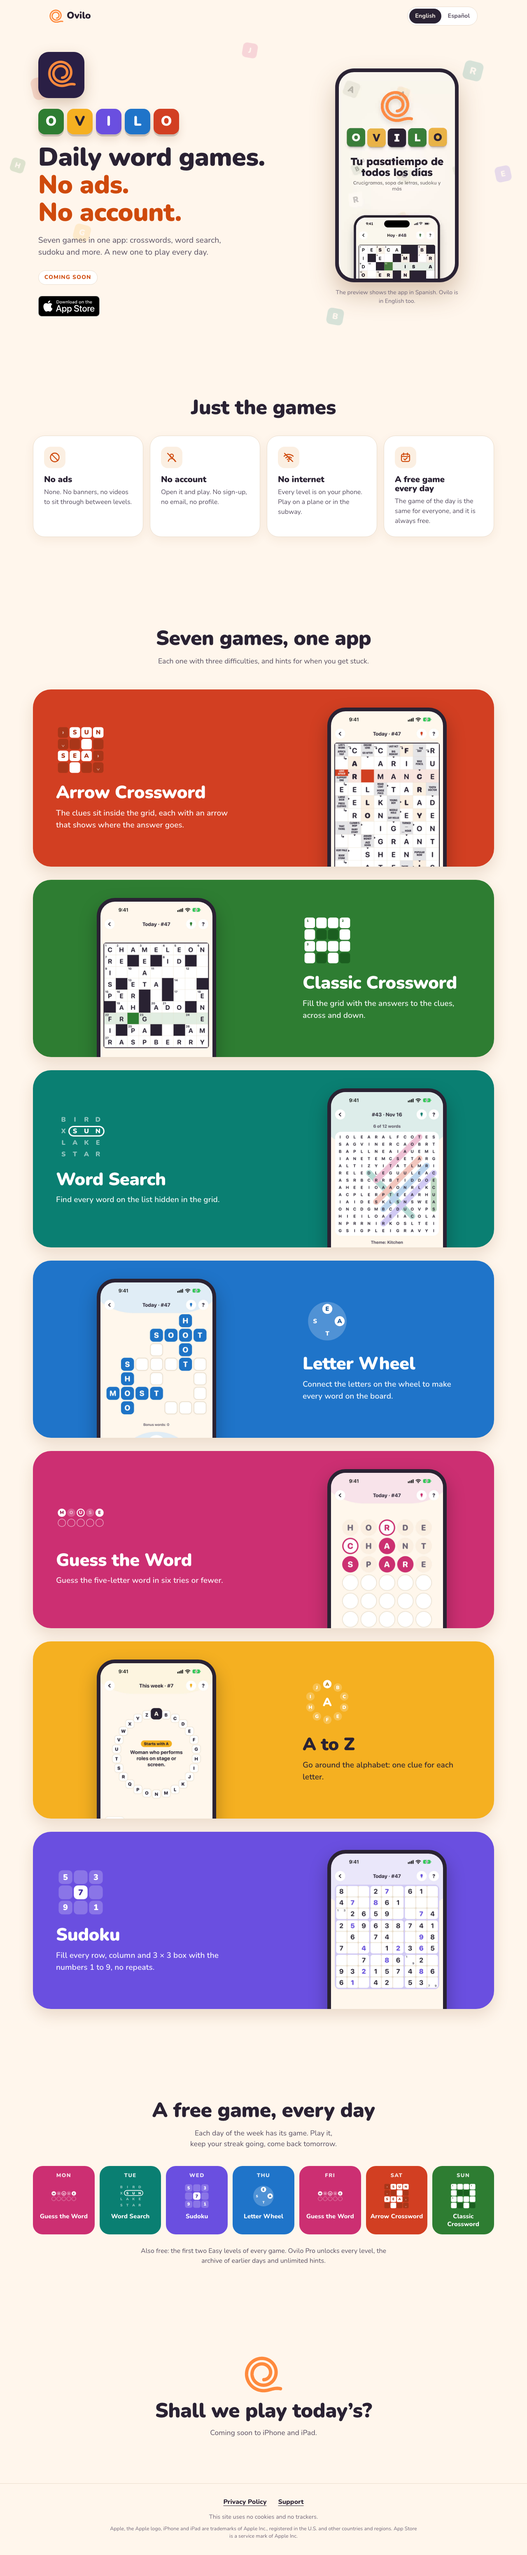
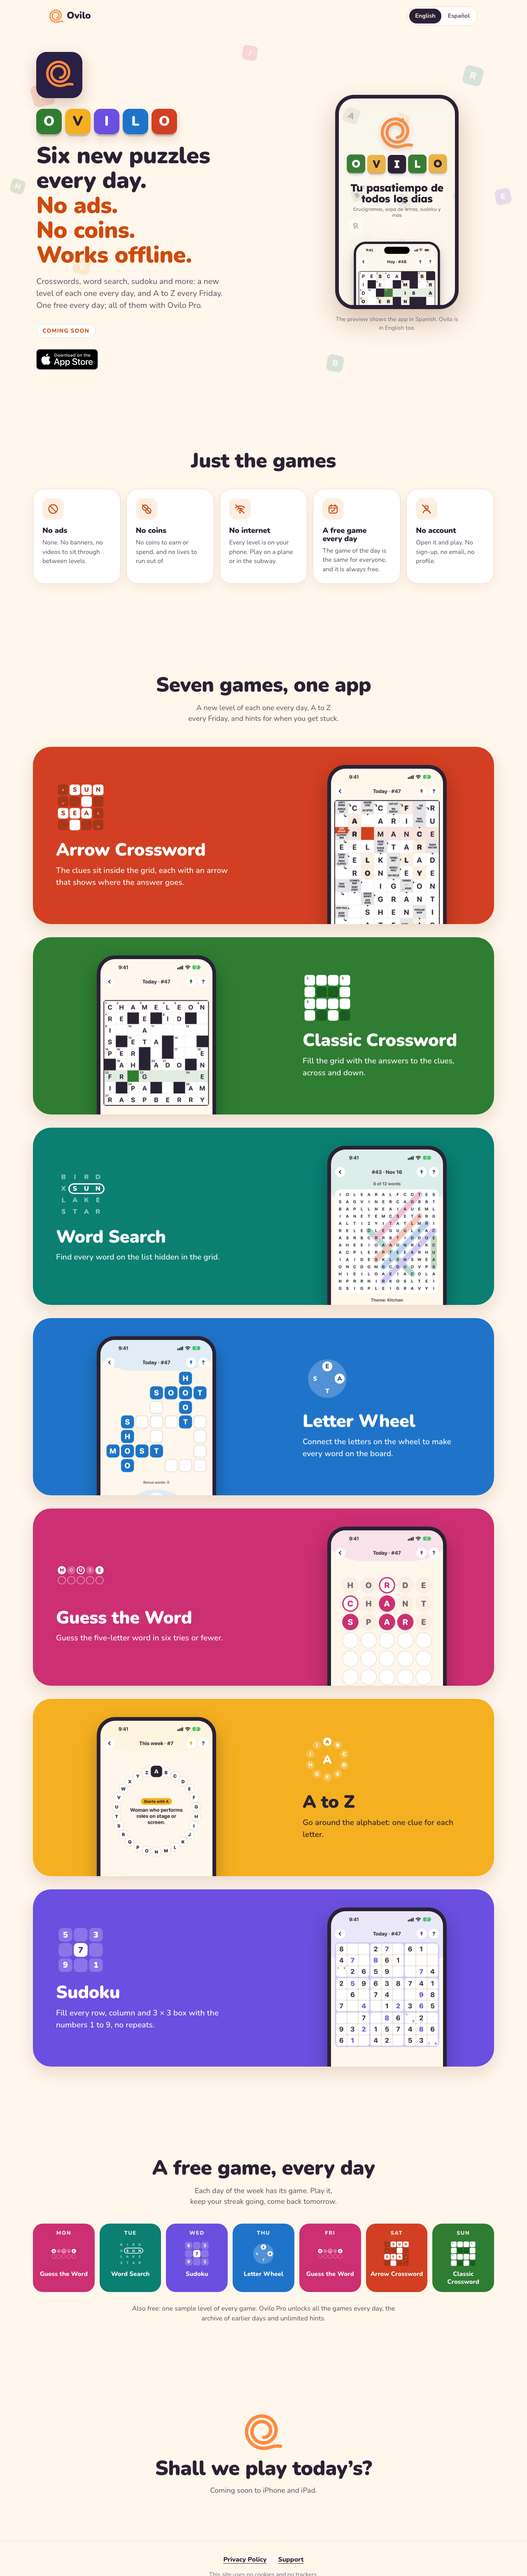
Textos del modelo diario: seis juegos nuevos cada día, sin monedas, sin internet (FO-580)
Fuera las dificultades y «los dos primeros niveles de Fácil»: lo gratis es el juego del día y un
nivel de muestra por juego.

diff --git a/es/index.html b/es/index.html
@@ -3,8 +3,8 @@
 <head>
 <meta charset="utf-8">
 <meta name="viewport" content="width=device-width, initial-scale=1, viewport-fit=cover">
-<title>Ovilo — Juegos de palabras para todos los días. Sin anuncios. Sin cuenta.</title>
-<meta name="description" content="Siete juegos de palabras y números en una sola app para iPhone: crucigramas, sopa de letras, rueda de letras, adivina la palabra, de la A a la Z y sudoku. Sin anuncios, sin cuenta y sin internet.">
+<title>Ovilo — Seis juegos nuevos cada día. Sin anuncios. Sin monedas. Sin internet.</title>
+<meta name="description" content="Crucigramas, sopa de letras, rueda de letras, adivina la palabra y sudoku para iPhone: un nivel nuevo de cada uno todos los días, y De la A a la Z cada viernes. Sin anuncios, sin monedas y sin internet.">
 <meta name="theme-color" content="#FFF6EC" media="(prefers-color-scheme: light)">
 <meta name="theme-color" content="#1A1622" media="(prefers-color-scheme: dark)">
 <meta name="color-scheme" content="light dark">
@@ -12,8 +12,8 @@
 <link rel="alternate" hreflang="es" href="https://ovilo.app/es/">
 <link rel="alternate" hreflang="x-default" href="https://ovilo.app/">
 <meta property="og:type" content="website">
-<meta property="og:title" content="Ovilo — Juegos de palabras para todos los días. Sin anuncios. Sin cuenta.">
-<meta property="og:description" content="Siete juegos de palabras y números en una sola app para iPhone: crucigramas, sopa de letras, rueda de letras, adivina la palabra, de la A a la Z y sudoku. Sin anuncios, sin cuenta y sin internet.">
+<meta property="og:title" content="Ovilo — Seis juegos nuevos cada día. Sin anuncios. Sin monedas. Sin internet.">
+<meta property="og:description" content="Crucigramas, sopa de letras, rueda de letras, adivina la palabra y sudoku para iPhone: un nivel nuevo de cada uno todos los días, y De la A a la Z cada viernes. Sin anuncios, sin monedas y sin internet.">
 <meta property="og:image" content="https://ovilo.app/assets/img/og.png">
 <meta name="twitter:card" content="summary_large_image">
 <link rel="icon" href="../assets/img/favicon.png" type="image/png">
@@ -45,8 +45,8 @@
     <div class="hero-text">
       <img class="app-icon" src="../assets/img/icon-256.png" width="112" height="112" alt="">
       <p class="wordmark" aria-label="Ovilo"><span aria-hidden="true" style="--g:#2E7D32;--on:#FFFFFF;--i:0">O</span><span aria-hidden="true" style="--g:#F5B021;--on:#2A2233;--i:1">V</span><span aria-hidden="true" style="--g:#6A4FE0;--on:#FFFFFF;--i:2">I</span><span aria-hidden="true" style="--g:#1F74C9;--on:#FFFFFF;--i:3">L</span><span aria-hidden="true" style="--g:#D23F22;--on:#FFFFFF;--i:4">O</span></p>
-      <h1><span>Un juego de palabras cada día.</span> <span class="accent">Sin anuncios.</span> <span class="accent">Sin cuenta.</span></h1>
-      <p class="sub">Siete juegos en una sola app: crucigramas, sopa de letras, sudoku y más. Cada día, uno nuevo para jugar.</p>
+      <h1><span>Seis juegos nuevos cada día.</span> <span class="accent">Sin anuncios.</span> <span class="accent">Sin monedas.</span> <span class="accent">Sin internet.</span></h1>
+      <p class="sub">Crucigramas, sopa de letras, sudoku y más: un nivel nuevo de cada uno todos los días, y De la A a la Z cada viernes. Gratis, uno por día; con Ovilo Pro, todos.</p>
       <div class="store" aria-label="Próximamente en iPhone y iPad."><span class="soon">Próximamente</span><img class="badge" src="../assets/img/app-store-badge-es.svg" width="150" height="50" alt="Descárgalo en el App Store"></div>
     </div>
     <div class="hero-video">
@@ -59,15 +59,16 @@
     <h2 class="reveal">Solo los juegos</h2>
     <ul class="why-grid">
       <li class="reveal" style="--i:0"><span class="why-icon"><svg viewBox="0 0 24 24" aria-hidden="true" focusable="false" fill="none" stroke="currentColor" stroke-width="2" stroke-linecap="round" stroke-linejoin="round"><circle cx="12" cy="12" r="9"/><path d="M5.6 5.6l12.8 12.8"/></svg></span><h3>Sin anuncios</h3><p>Ninguno. Ni carteles ni videos que esperar entre nivel y nivel.</p></li>
-      <li class="reveal" style="--i:1"><span class="why-icon"><svg viewBox="0 0 24 24" aria-hidden="true" focusable="false" fill="none" stroke="currentColor" stroke-width="2" stroke-linecap="round" stroke-linejoin="round"><circle cx="12" cy="8.5" r="3.5"/><path d="M5 20c.8-3.6 3.6-5.5 7-5.5s6.2 1.9 7 5.5"/><path d="M3.5 3.5l17 17"/></svg></span><h3>Sin cuenta</h3><p>La abres y juegas. Sin registro, sin correo, sin perfil.</p></li>
+      <li class="reveal" style="--i:1"><span class="why-icon"><svg viewBox="0 0 24 24" aria-hidden="true" focusable="false" fill="none" stroke="currentColor" stroke-width="2" stroke-linecap="round" stroke-linejoin="round"><circle cx="9" cy="9" r="5.5"/><path d="M14.2 10.2a5.5 5.5 0 1 1-4 4"/><path d="M3.5 3.5l17 17"/></svg></span><h3>Sin monedas</h3><p>Ni monedas que juntar o gastar, ni vidas que se acaban.</p></li>
       <li class="reveal" style="--i:2"><span class="why-icon"><svg viewBox="0 0 24 24" aria-hidden="true" focusable="false" fill="none" stroke="currentColor" stroke-width="2" stroke-linecap="round" stroke-linejoin="round"><path d="M2.5 9.5a14 14 0 0 1 19 0"/><path d="M6 13a9 9 0 0 1 12 0"/><path d="M9.3 16.4a4.2 4.2 0 0 1 5.4 0"/><circle cx="12" cy="19.5" r=".8" fill="currentColor"/><path d="M3.5 3.5l17 17"/></svg></span><h3>Sin internet</h3><p>Todos los niveles están en tu teléfono. Juega en el avión o en el metro.</p></li>
       <li class="reveal" style="--i:3"><span class="why-icon"><svg viewBox="0 0 24 24" aria-hidden="true" focusable="false" fill="none" stroke="currentColor" stroke-width="2" stroke-linecap="round" stroke-linejoin="round"><rect x="3.5" y="5" width="17" height="15.5" rx="3.5"/><path d="M8 3v4M16 3v4M3.5 10h17"/><path d="M8.5 15l2.3 2.3 4.7-4.8"/></svg></span><h3>Un juego gratis cada día</h3><p>El juego del día es el mismo para todos, y siempre es gratis.</p></li>
+      <li class="reveal" style="--i:4"><span class="why-icon"><svg viewBox="0 0 24 24" aria-hidden="true" focusable="false" fill="none" stroke="currentColor" stroke-width="2" stroke-linecap="round" stroke-linejoin="round"><circle cx="12" cy="8.5" r="3.5"/><path d="M5 20c.8-3.6 3.6-5.5 7-5.5s6.2 1.9 7 5.5"/><path d="M3.5 3.5l17 17"/></svg></span><h3>Sin cuenta</h3><p>La abres y juegas. Sin registro, sin correo, sin perfil.</p></li>
     </ul>
   </section>
 
   <section class="games">
     <h2 class="reveal">Siete juegos, una app</h2>
-    <p class="lead reveal">Cada uno con tres dificultades, y pistas para cuando te atascas.</p>
+    <p class="lead reveal">Un nivel nuevo de cada uno todos los días, De la A a la Z cada viernes, y pistas para cuando te atascas.</p>
     <div class="game-list">
       <article class="game reveal" style="--g:#D23F22;--deep:#A93619;--on:#FFFFFF">
         <div class="game-text">
@@ -154,7 +155,7 @@
         <li style="--g:#D23F22;--deep:#A93619;--on:#FFFFFF"><span class="day">Sáb</span><svg class="art" viewBox="0 0 120 120" aria-hidden="true" focusable="false"><rect x="4.62" y="4.62" width="25.53" height="25.53" rx="5.62" fill="#A93619"/><text x="17.38" y="17.38" font-size="15.83" fill="rgba(255,255,255,.55)" text-anchor="middle" dominant-baseline="central">›</text><rect x="33.03" y="4.62" width="25.53" height="25.53" rx="5.62" fill="#FFFFFF"/><text x="45.79" y="17.38" font-size="15.32" fill="#A93619" text-anchor="middle" dominant-baseline="central">S</text><rect x="61.44" y="4.62" width="25.53" height="25.53" rx="5.62" fill="#FFFFFF"/><text x="74.21" y="17.38" font-size="15.32" fill="#A93619" text-anchor="middle" dominant-baseline="central">O</text><rect x="89.85" y="4.62" width="25.53" height="25.53" rx="5.62" fill="#FFFFFF"/><text x="102.62" y="17.38" font-size="15.32" fill="#A93619" text-anchor="middle" dominant-baseline="central">L</text><rect x="4.62" y="33.03" width="25.53" height="25.53" rx="5.62" fill="#A93619"/><text x="17.38" y="45.79" font-size="15.83" fill="rgba(255,255,255,.55)" text-anchor="middle" dominant-baseline="central">⌄</text><rect x="33.03" y="33.03" width="25.53" height="25.53" rx="5.62" fill="#A93619"/><rect x="61.44" y="33.03" width="25.53" height="25.53" rx="5.62" fill="#FFFFFF"/><rect x="89.85" y="33.03" width="25.53" height="25.53" rx="5.62" fill="#A93619"/><rect x="4.62" y="61.44" width="25.53" height="25.53" rx="5.62" fill="#FFFFFF"/><text x="17.38" y="74.21" font-size="15.32" fill="#A93619" text-anchor="middle" dominant-baseline="central">M</text><rect x="33.03" y="61.44" width="25.53" height="25.53" rx="5.62" fill="#FFFFFF"/><text x="45.79" y="74.21" font-size="15.32" fill="#A93619" text-anchor="middle" dominant-baseline="central">A</text><rect x="61.44" y="61.44" width="25.53" height="25.53" rx="5.62" fill="#FFFFFF"/><text x="74.21" y="74.21" font-size="15.32" fill="#A93619" text-anchor="middle" dominant-baseline="central">R</text><rect x="89.85" y="61.44" width="25.53" height="25.53" rx="5.62" fill="#A93619"/><text x="102.62" y="74.21" font-size="15.83" fill="rgba(255,255,255,.55)" text-anchor="middle" dominant-baseline="central">›</text><rect x="4.62" y="89.85" width="25.53" height="25.53" rx="5.62" fill="#A93619"/><rect x="33.03" y="89.85" width="25.53" height="25.53" rx="5.62" fill="#FFFFFF"/><rect x="61.44" y="89.85" width="25.53" height="25.53" rx="5.62" fill="#A93619"/><rect x="89.85" y="89.85" width="25.53" height="25.53" rx="5.62" fill="#A93619"/><text x="102.62" y="102.62" font-size="15.83" fill="rgba(255,255,255,.55)" text-anchor="middle" dominant-baseline="central">⌄</text></svg><span class="day-game">Crucigrama autodefinido</span></li>
         <li style="--g:#2E7D32;--deep:#1B5E20;--on:#FFFFFF"><span class="day">Dom</span><svg class="art" viewBox="0 0 120 120" aria-hidden="true" focusable="false"><rect x="4.62" y="4.62" width="25.53" height="25.53" rx="5.62" fill="#FFFFFF"/><text x="12.28" y="12.28" font-size="7.66" fill="#1B5E20" text-anchor="middle" dominant-baseline="central">1</text><rect x="33.03" y="4.62" width="25.53" height="25.53" rx="5.62" fill="#FFFFFF"/><rect x="61.44" y="4.62" width="25.53" height="25.53" rx="5.62" fill="#FFFFFF"/><rect x="89.85" y="4.62" width="25.53" height="25.53" rx="5.62" fill="#FFFFFF"/><text x="97.51" y="12.28" font-size="7.66" fill="#1B5E20" text-anchor="middle" dominant-baseline="central">2</text><rect x="4.62" y="33.03" width="25.53" height="25.53" rx="5.62" fill="#FFFFFF"/><rect x="33.03" y="33.03" width="25.53" height="25.53" rx="5.62" fill="#1B5E20"/><rect x="61.44" y="33.03" width="25.53" height="25.53" rx="5.62" fill="#1B5E20"/><rect x="89.85" y="33.03" width="25.53" height="25.53" rx="5.62" fill="#FFFFFF"/><rect x="4.62" y="61.44" width="25.53" height="25.53" rx="5.62" fill="#FFFFFF"/><text x="12.28" y="69.1" font-size="7.66" fill="#1B5E20" text-anchor="middle" dominant-baseline="central">3</text><rect x="33.03" y="61.44" width="25.53" height="25.53" rx="5.62" fill="#FFFFFF"/><rect x="61.44" y="61.44" width="25.53" height="25.53" rx="5.62" fill="#FFFFFF"/><rect x="89.85" y="61.44" width="25.53" height="25.53" rx="5.62" fill="#FFFFFF"/><rect x="4.62" y="89.85" width="25.53" height="25.53" rx="5.62" fill="#FFFFFF"/><rect x="33.03" y="89.85" width="25.53" height="25.53" rx="5.62" fill="#1B5E20"/><rect x="61.44" y="89.85" width="25.53" height="25.53" rx="5.62" fill="#FFFFFF"/><rect x="89.85" y="89.85" width="25.53" height="25.53" rx="5.62" fill="#1B5E20"/></svg><span class="day-game">Crucigrama tradicional</span></li>
     </ol>
-    <p class="free-note reveal">También gratis: los dos primeros niveles de Fácil de cada juego. Ovilo Pro abre todos los niveles, el archivo de los días anteriores y pistas sin límite.</p>
+    <p class="free-note reveal">También gratis: un nivel de muestra de cada juego. Ovilo Pro abre todos los juegos todos los días, el archivo de los días anteriores y pistas sin límite.</p>
   </section>
 
   <section class="end reveal">

diff --git a/index.html b/index.html
@@ -3,8 +3,8 @@
 <head>
 <meta charset="utf-8">
 <meta name="viewport" content="width=device-width, initial-scale=1, viewport-fit=cover">
-<title>Ovilo — Daily word games. No ads. No account.</title>
-<meta name="description" content="Seven word and number games in one iPhone app: crosswords, word search, letter wheel, guess the word, A to Z and sudoku. No ads, no account, no internet needed.">
+<title>Ovilo — Six new puzzles every day. No ads. No coins. Works offline.</title>
+<meta name="description" content="Crosswords, word search, letter wheel, guess the word and sudoku for iPhone: a new level of each every day, and A to Z every Friday. No ads, no coins, no internet needed.">
 <meta name="theme-color" content="#FFF6EC" media="(prefers-color-scheme: light)">
 <meta name="theme-color" content="#1A1622" media="(prefers-color-scheme: dark)">
 <meta name="color-scheme" content="light dark">
@@ -12,8 +12,8 @@
 <link rel="alternate" hreflang="es" href="https://ovilo.app/es/">
 <link rel="alternate" hreflang="x-default" href="https://ovilo.app/">
 <meta property="og:type" content="website">
-<meta property="og:title" content="Ovilo — Daily word games. No ads. No account.">
-<meta property="og:description" content="Seven word and number games in one iPhone app: crosswords, word search, letter wheel, guess the word, A to Z and sudoku. No ads, no account, no internet needed.">
+<meta property="og:title" content="Ovilo — Six new puzzles every day. No ads. No coins. Works offline.">
+<meta property="og:description" content="Crosswords, word search, letter wheel, guess the word and sudoku for iPhone: a new level of each every day, and A to Z every Friday. No ads, no coins, no internet needed.">
 <meta property="og:image" content="https://ovilo.app/assets/img/og.png">
 <meta name="twitter:card" content="summary_large_image">
 <link rel="icon" href="assets/img/favicon.png" type="image/png">
@@ -45,8 +45,8 @@
     <div class="hero-text">
       <img class="app-icon" src="assets/img/icon-256.png" width="112" height="112" alt="">
       <p class="wordmark" aria-label="Ovilo"><span aria-hidden="true" style="--g:#2E7D32;--on:#FFFFFF;--i:0">O</span><span aria-hidden="true" style="--g:#F5B021;--on:#2A2233;--i:1">V</span><span aria-hidden="true" style="--g:#6A4FE0;--on:#FFFFFF;--i:2">I</span><span aria-hidden="true" style="--g:#1F74C9;--on:#FFFFFF;--i:3">L</span><span aria-hidden="true" style="--g:#D23F22;--on:#FFFFFF;--i:4">O</span></p>
-      <h1><span>Daily word games.</span> <span class="accent">No ads.</span> <span class="accent">No account.</span></h1>
-      <p class="sub">Seven games in one app: crosswords, word search, sudoku and more. A new one to play every day.</p>
+      <h1><span>Six new puzzles every day.</span> <span class="accent">No ads.</span> <span class="accent">No coins.</span> <span class="accent">Works offline.</span></h1>
+      <p class="sub">Crosswords, word search, sudoku and more: a new level of each one every day, and A to Z every Friday. One free every day; all of them with Ovilo Pro.</p>
       <div class="store" aria-label="Coming soon to iPhone and iPad."><span class="soon">Coming soon</span><img class="badge" src="assets/img/app-store-badge-en.svg" width="150" height="50" alt="Download on the App Store"></div>
     </div>
     <div class="hero-video">
@@ -59,15 +59,16 @@
     <h2 class="reveal">Just the games</h2>
     <ul class="why-grid">
       <li class="reveal" style="--i:0"><span class="why-icon"><svg viewBox="0 0 24 24" aria-hidden="true" focusable="false" fill="none" stroke="currentColor" stroke-width="2" stroke-linecap="round" stroke-linejoin="round"><circle cx="12" cy="12" r="9"/><path d="M5.6 5.6l12.8 12.8"/></svg></span><h3>No ads</h3><p>None. No banners, no videos to sit through between levels.</p></li>
-      <li class="reveal" style="--i:1"><span class="why-icon"><svg viewBox="0 0 24 24" aria-hidden="true" focusable="false" fill="none" stroke="currentColor" stroke-width="2" stroke-linecap="round" stroke-linejoin="round"><circle cx="12" cy="8.5" r="3.5"/><path d="M5 20c.8-3.6 3.6-5.5 7-5.5s6.2 1.9 7 5.5"/><path d="M3.5 3.5l17 17"/></svg></span><h3>No account</h3><p>Open it and play. No sign-up, no email, no profile.</p></li>
+      <li class="reveal" style="--i:1"><span class="why-icon"><svg viewBox="0 0 24 24" aria-hidden="true" focusable="false" fill="none" stroke="currentColor" stroke-width="2" stroke-linecap="round" stroke-linejoin="round"><circle cx="9" cy="9" r="5.5"/><path d="M14.2 10.2a5.5 5.5 0 1 1-4 4"/><path d="M3.5 3.5l17 17"/></svg></span><h3>No coins</h3><p>No coins to earn or spend, and no lives to run out of.</p></li>
       <li class="reveal" style="--i:2"><span class="why-icon"><svg viewBox="0 0 24 24" aria-hidden="true" focusable="false" fill="none" stroke="currentColor" stroke-width="2" stroke-linecap="round" stroke-linejoin="round"><path d="M2.5 9.5a14 14 0 0 1 19 0"/><path d="M6 13a9 9 0 0 1 12 0"/><path d="M9.3 16.4a4.2 4.2 0 0 1 5.4 0"/><circle cx="12" cy="19.5" r=".8" fill="currentColor"/><path d="M3.5 3.5l17 17"/></svg></span><h3>No internet</h3><p>Every level is on your phone. Play on a plane or in the subway.</p></li>
       <li class="reveal" style="--i:3"><span class="why-icon"><svg viewBox="0 0 24 24" aria-hidden="true" focusable="false" fill="none" stroke="currentColor" stroke-width="2" stroke-linecap="round" stroke-linejoin="round"><rect x="3.5" y="5" width="17" height="15.5" rx="3.5"/><path d="M8 3v4M16 3v4M3.5 10h17"/><path d="M8.5 15l2.3 2.3 4.7-4.8"/></svg></span><h3>A free game every day</h3><p>The game of the day is the same for everyone, and it is always free.</p></li>
+      <li class="reveal" style="--i:4"><span class="why-icon"><svg viewBox="0 0 24 24" aria-hidden="true" focusable="false" fill="none" stroke="currentColor" stroke-width="2" stroke-linecap="round" stroke-linejoin="round"><circle cx="12" cy="8.5" r="3.5"/><path d="M5 20c.8-3.6 3.6-5.5 7-5.5s6.2 1.9 7 5.5"/><path d="M3.5 3.5l17 17"/></svg></span><h3>No account</h3><p>Open it and play. No sign-up, no email, no profile.</p></li>
     </ul>
   </section>
 
   <section class="games">
     <h2 class="reveal">Seven games, one app</h2>
-    <p class="lead reveal">Each one with three difficulties, and hints for when you get stuck.</p>
+    <p class="lead reveal">A new level of each one every day, A to Z every Friday, and hints for when you get stuck.</p>
     <div class="game-list">
       <article class="game reveal" style="--g:#D23F22;--deep:#A93619;--on:#FFFFFF">
         <div class="game-text">
@@ -154,7 +155,7 @@
         <li style="--g:#D23F22;--deep:#A93619;--on:#FFFFFF"><span class="day">Sat</span><svg class="art" viewBox="0 0 120 120" aria-hidden="true" focusable="false"><rect x="4.62" y="4.62" width="25.53" height="25.53" rx="5.62" fill="#A93619"/><text x="17.38" y="17.38" font-size="15.83" fill="rgba(255,255,255,.55)" text-anchor="middle" dominant-baseline="central">›</text><rect x="33.03" y="4.62" width="25.53" height="25.53" rx="5.62" fill="#FFFFFF"/><text x="45.79" y="17.38" font-size="15.32" fill="#A93619" text-anchor="middle" dominant-baseline="central">S</text><rect x="61.44" y="4.62" width="25.53" height="25.53" rx="5.62" fill="#FFFFFF"/><text x="74.21" y="17.38" font-size="15.32" fill="#A93619" text-anchor="middle" dominant-baseline="central">U</text><rect x="89.85" y="4.62" width="25.53" height="25.53" rx="5.62" fill="#FFFFFF"/><text x="102.62" y="17.38" font-size="15.32" fill="#A93619" text-anchor="middle" dominant-baseline="central">N</text><rect x="4.62" y="33.03" width="25.53" height="25.53" rx="5.62" fill="#A93619"/><text x="17.38" y="45.79" font-size="15.83" fill="rgba(255,255,255,.55)" text-anchor="middle" dominant-baseline="central">⌄</text><rect x="33.03" y="33.03" width="25.53" height="25.53" rx="5.62" fill="#A93619"/><rect x="61.44" y="33.03" width="25.53" height="25.53" rx="5.62" fill="#FFFFFF"/><rect x="89.85" y="33.03" width="25.53" height="25.53" rx="5.62" fill="#A93619"/><rect x="4.62" y="61.44" width="25.53" height="25.53" rx="5.62" fill="#FFFFFF"/><text x="17.38" y="74.21" font-size="15.32" fill="#A93619" text-anchor="middle" dominant-baseline="central">S</text><rect x="33.03" y="61.44" width="25.53" height="25.53" rx="5.62" fill="#FFFFFF"/><text x="45.79" y="74.21" font-size="15.32" fill="#A93619" text-anchor="middle" dominant-baseline="central">E</text><rect x="61.44" y="61.44" width="25.53" height="25.53" rx="5.62" fill="#FFFFFF"/><text x="74.21" y="74.21" font-size="15.32" fill="#A93619" text-anchor="middle" dominant-baseline="central">A</text><rect x="89.85" y="61.44" width="25.53" height="25.53" rx="5.62" fill="#A93619"/><text x="102.62" y="74.21" font-size="15.83" fill="rgba(255,255,255,.55)" text-anchor="middle" dominant-baseline="central">›</text><rect x="4.62" y="89.85" width="25.53" height="25.53" rx="5.62" fill="#A93619"/><rect x="33.03" y="89.85" width="25.53" height="25.53" rx="5.62" fill="#FFFFFF"/><rect x="61.44" y="89.85" width="25.53" height="25.53" rx="5.62" fill="#A93619"/><rect x="89.85" y="89.85" width="25.53" height="25.53" rx="5.62" fill="#A93619"/><text x="102.62" y="102.62" font-size="15.83" fill="rgba(255,255,255,.55)" text-anchor="middle" dominant-baseline="central">⌄</text></svg><span class="day-game">Arrow Crossword</span></li>
         <li style="--g:#2E7D32;--deep:#1B5E20;--on:#FFFFFF"><span class="day">Sun</span><svg class="art" viewBox="0 0 120 120" aria-hidden="true" focusable="false"><rect x="4.62" y="4.62" width="25.53" height="25.53" rx="5.62" fill="#FFFFFF"/><text x="12.28" y="12.28" font-size="7.66" fill="#1B5E20" text-anchor="middle" dominant-baseline="central">1</text><rect x="33.03" y="4.62" width="25.53" height="25.53" rx="5.62" fill="#FFFFFF"/><rect x="61.44" y="4.62" width="25.53" height="25.53" rx="5.62" fill="#FFFFFF"/><rect x="89.85" y="4.62" width="25.53" height="25.53" rx="5.62" fill="#FFFFFF"/><text x="97.51" y="12.28" font-size="7.66" fill="#1B5E20" text-anchor="middle" dominant-baseline="central">2</text><rect x="4.62" y="33.03" width="25.53" height="25.53" rx="5.62" fill="#FFFFFF"/><rect x="33.03" y="33.03" width="25.53" height="25.53" rx="5.62" fill="#1B5E20"/><rect x="61.44" y="33.03" width="25.53" height="25.53" rx="5.62" fill="#1B5E20"/><rect x="89.85" y="33.03" width="25.53" height="25.53" rx="5.62" fill="#FFFFFF"/><rect x="4.62" y="61.44" width="25.53" height="25.53" rx="5.62" fill="#FFFFFF"/><text x="12.28" y="69.1" font-size="7.66" fill="#1B5E20" text-anchor="middle" dominant-baseline="central">3</text><rect x="33.03" y="61.44" width="25.53" height="25.53" rx="5.62" fill="#FFFFFF"/><rect x="61.44" y="61.44" width="25.53" height="25.53" rx="5.62" fill="#FFFFFF"/><rect x="89.85" y="61.44" width="25.53" height="25.53" rx="5.62" fill="#FFFFFF"/><rect x="4.62" y="89.85" width="25.53" height="25.53" rx="5.62" fill="#FFFFFF"/><rect x="33.03" y="89.85" width="25.53" height="25.53" rx="5.62" fill="#1B5E20"/><rect x="61.44" y="89.85" width="25.53" height="25.53" rx="5.62" fill="#FFFFFF"/><rect x="89.85" y="89.85" width="25.53" height="25.53" rx="5.62" fill="#1B5E20"/></svg><span class="day-game">Classic Crossword</span></li>
     </ol>
-    <p class="free-note reveal">Also free: the first two Easy levels of every game. Ovilo Pro unlocks every level, the archive of earlier days and unlimited hints.</p>
+    <p class="free-note reveal">Also free: one sample level of every game. Ovilo Pro unlocks all the games every day, the archive of earlier days and unlimited hints.</p>
   </section>
 
   <section class="end reveal">

diff --git a/assets/site.css b/assets/site.css
@@ -89,7 +89,7 @@ section { padding-block: clamp(56px, 9vw, 110px); }
   box-shadow: 0 5px 0 rgb(0 0 0 / .16), 0 12px 20px rgb(var(--shadow) / .16);
   animation: drop .7s cubic-bezier(.2, 1.3, .4, 1) both; animation-delay: calc(var(--i) * 80ms + 100ms);
 }
-h1 { font-size: clamp(2.3rem, 8.4vw, 3.9rem); }
+h1 { font-size: clamp(2.1rem, 7.6vw, 3.5rem); }
 h1 span { display: block; }
 h1 .accent { color: var(--accent); }
 .sub { margin-top: 18px; color: var(--ink-soft); font-size: clamp(1.05rem, 2.6vw, 1.22rem); max-width: 28em; text-wrap: balance; }
@@ -160,6 +160,7 @@ footer p + p { margin-top: 8px; }
 
 @media (min-width: 620px) {
   .why-grid { grid-template-columns: repeat(2, 1fr); }
+  .why-grid li:last-child { grid-column: 1 / -1; }
   .week-row { grid-template-columns: repeat(4, 1fr); }
   .week-row li:last-child { grid-column: auto; }
 }
@@ -168,7 +169,11 @@ footer p + p { margin-top: 8px; }
   .hero-text { text-align: left; align-items: flex-start; margin: 0; }
   .store { align-items: flex-start; }
   .badge { margin-left: 0; }
-  .why-grid { grid-template-columns: repeat(4, 1fr); }
+  .why-grid { grid-template-columns: repeat(5, 1fr); gap: 14px; }
+  .why-grid li:last-child { grid-column: auto; }
+  .why-grid li { padding: 22px; }
+  .why-grid h3 { font-size: 1.15rem; }
+  .why-grid p { font-size: .95rem; }
   .game { grid-template-columns: 1.15fr 1fr; min-height: 430px; }
   .game.flip .game-text { order: 2; }
   .game-text { padding-bottom: clamp(28px, 5vw, 56px); }
